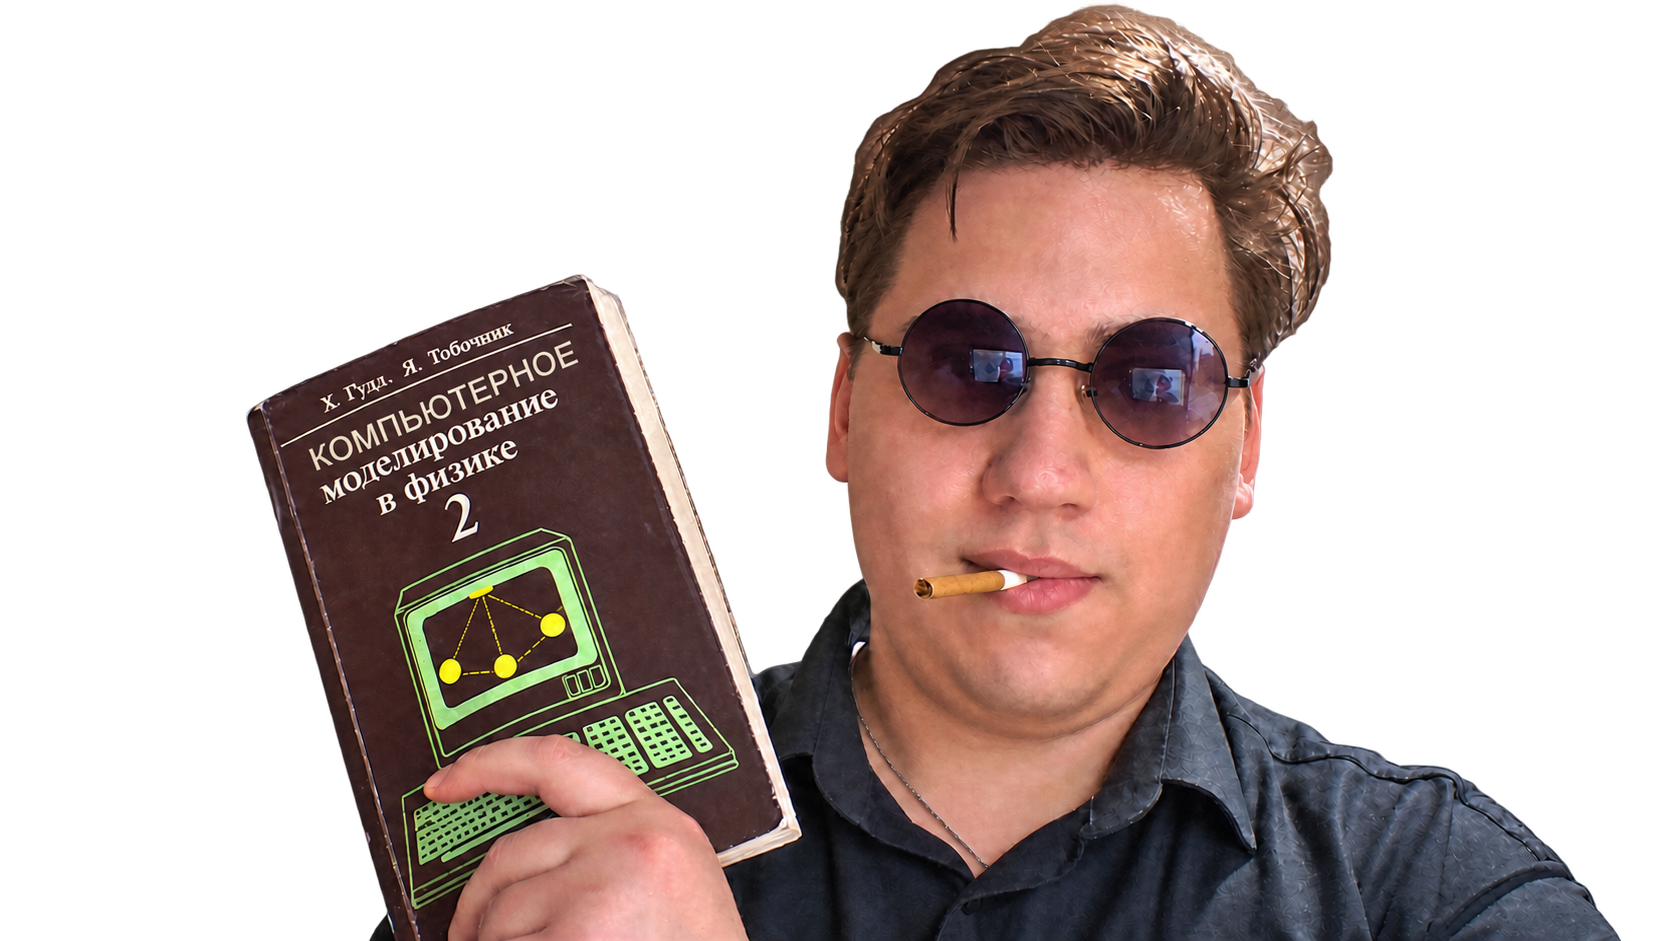
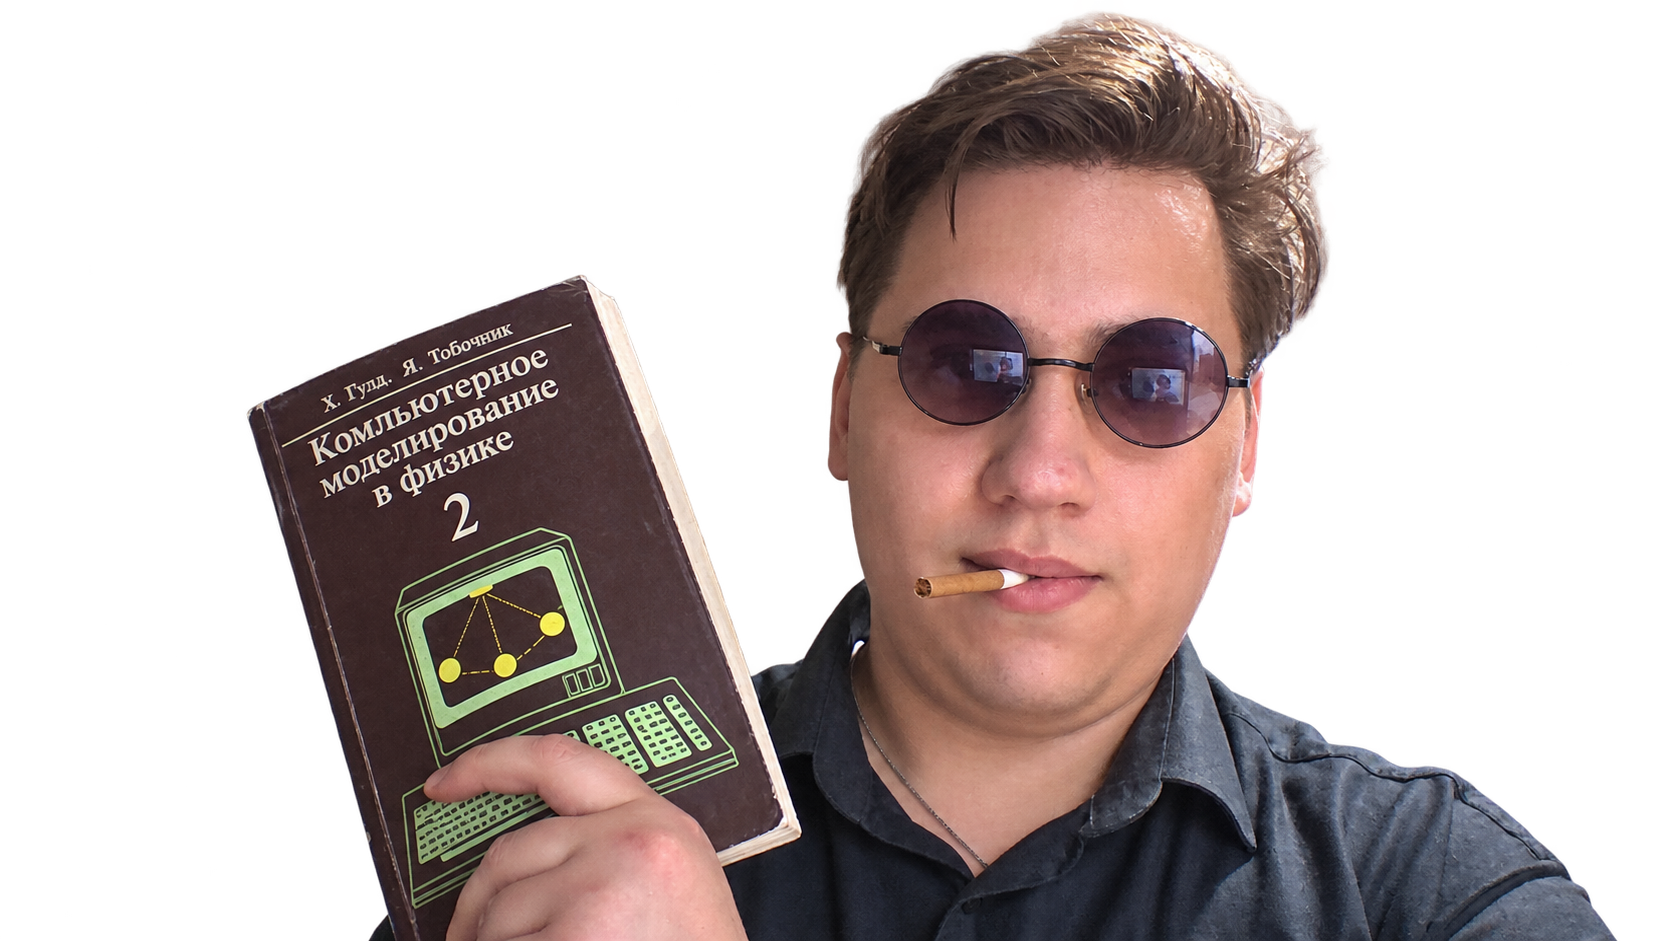
LLLLLLLL

diff --git a/FaustSpin/FaustSpin/Lattice/1D/Neighbors_1D.h b/FaustSpin/FaustSpin/Lattice/1D/Neighbors_1D.h
@@ -1,11 +1,17 @@
 #pragma once
 #include "Lattice1D.h"
-
+#include "../Lattice/Pair_Indeces_Fill.h"
+#include <cstddef>
+#include <cstdint>
+#include <utility>
+#include <vector>
 namespace Neighbors1D {
 
 	struct NeighborData {
 		std::vector<uint64_t> indices;
-		std::uint8_t count;
+		std::uint8_t count{};
+		std::vector<std::pair<std::size_t, std::size_t>> unique_pairs;
+		std::vector<std::size_t> matrixIndexBySlot;
 	};
 
 	inline NeighborData get_neighbors_periodic_BC_1D(
@@ -29,7 +35,12 @@ namespace Neighbors1D {
 			nd.indices[2 * i] = left;
 			nd.indices[2 * i + 1] = right;
 		}
-
+		NeighborPairs::fill(
+			nd.indices,
+			nd.count,
+			nd.unique_pairs,
+			nd.matrixIndexBySlot
+		);
 		return nd;
 	}
 	inline std::vector<uint64_t> open_BC_1D(const Lattice1D::Lattice1D_Data& ld, uint64_t x) {

diff --git a/FaustSpin/FaustSpin/Lattice/3D/Neighbors_3D_Cube.h b/FaustSpin/FaustSpin/Lattice/3D/Neighbors_3D_Cube.h
@@ -1,11 +1,16 @@
 #pragma once
 #include "Latice3D.h"
-
+#include "../Lattice/Pair_Indeces_Fill.h"
+#include <cstddef>
+#include <cstdint>
+#include <utility>
+#include <vector>
 namespace Neighbors3D {
     struct NeighborData {
         std::vector<uint64_t> indices;
         std::uint8_t count{};
 		std::vector<std::pair<std::size_t, std::size_t>> unique_pairs;
+        std::vector<std::size_t> matrixIndexBySlot;
     };
     inline NeighborData get_neighbors_periodic_BC_3D(
         const Lattice3D::Lattice3D_Data& ld
@@ -91,6 +96,13 @@ namespace Neighbors3D {
                 }
             }
         }
+
+        NeighborPairs::fill(
+            nd.indices,
+            nd.count,
+            nd.unique_pairs,
+            nd.matrixIndexBySlot
+        );
 
         return nd;
     }

diff --git a/FaustSpin/UrFaustGUI_TEST_1/creator_dialog.cpp b/FaustSpin/UrFaustGUI_TEST_1/creator_dialog.cpp
@@ -38,17 +38,17 @@ CreatorDialog::CreatorDialog(QWidget *parent)
     // cat1.jpg.
     setImage(ui->label_3, QStringLiteral(":/images/cat_1"));
 
-    // cat2.png.
-    setImage(ui->label, QStringLiteral(":/images/cat_2"));
-
-    // cat3.png.
-    setImage(ui->label_6, QStringLiteral(":/images/cat_3"));
-
     // cat4.png.
-    setImage(ui->label_4, QStringLiteral(":/images/cat_4"));
+    setImage(ui->label, QStringLiteral(":/images/cat_4"));
 
     // cat5.png.
-    setImage(ui->label_5, QStringLiteral(":/images/cat_5"));
+    setImage(ui->label_6, QStringLiteral(":/images/cat_5"));
+
+    // cat2.png.
+    setImage(ui->label_4, QStringLiteral(":/images/cat_2"));
+
+    // cat3.png.
+    setImage(ui->label_5, QStringLiteral(":/images/cat_3"));
 }
 
 CreatorDialog::~CreatorDialog()

diff --git a/FaustSpin/FaustSpin/Lattice/2D/Neighbors_2D_Cube.h b/FaustSpin/FaustSpin/Lattice/2D/Neighbors_2D_Cube.h
@@ -1,10 +1,16 @@
 #pragma once
 #include "Lattice2D.h"
-
+#include "../Lattice/Pair_Indeces_Fill.h"
+#include <cstddef>
+#include <cstdint>
+#include <utility>
+#include <vector>
 namespace Neighbors2D {
 	struct NeighborData {
 		std::vector<uint64_t> indices;
-		std::uint8_t count;
+		std::uint8_t count{};
+		std::vector<std::pair<std::size_t, std::size_t>> unique_pairs;
+		std::vector<std::size_t> matrixIndexBySlot;
 	};
 
 	inline NeighborData get_neighbors_periodic_BC_2D(const Lattice2D::Lattice2D_Data& ld) {
@@ -43,6 +49,12 @@ namespace Neighbors2D {
 				}
 			}
 		}
+		NeighborPairs::fill(
+			nd.indices,
+			nd.count,
+			nd.unique_pairs,
+			nd.matrixIndexBySlot
+		);
 		return nd;
 	}
 }
